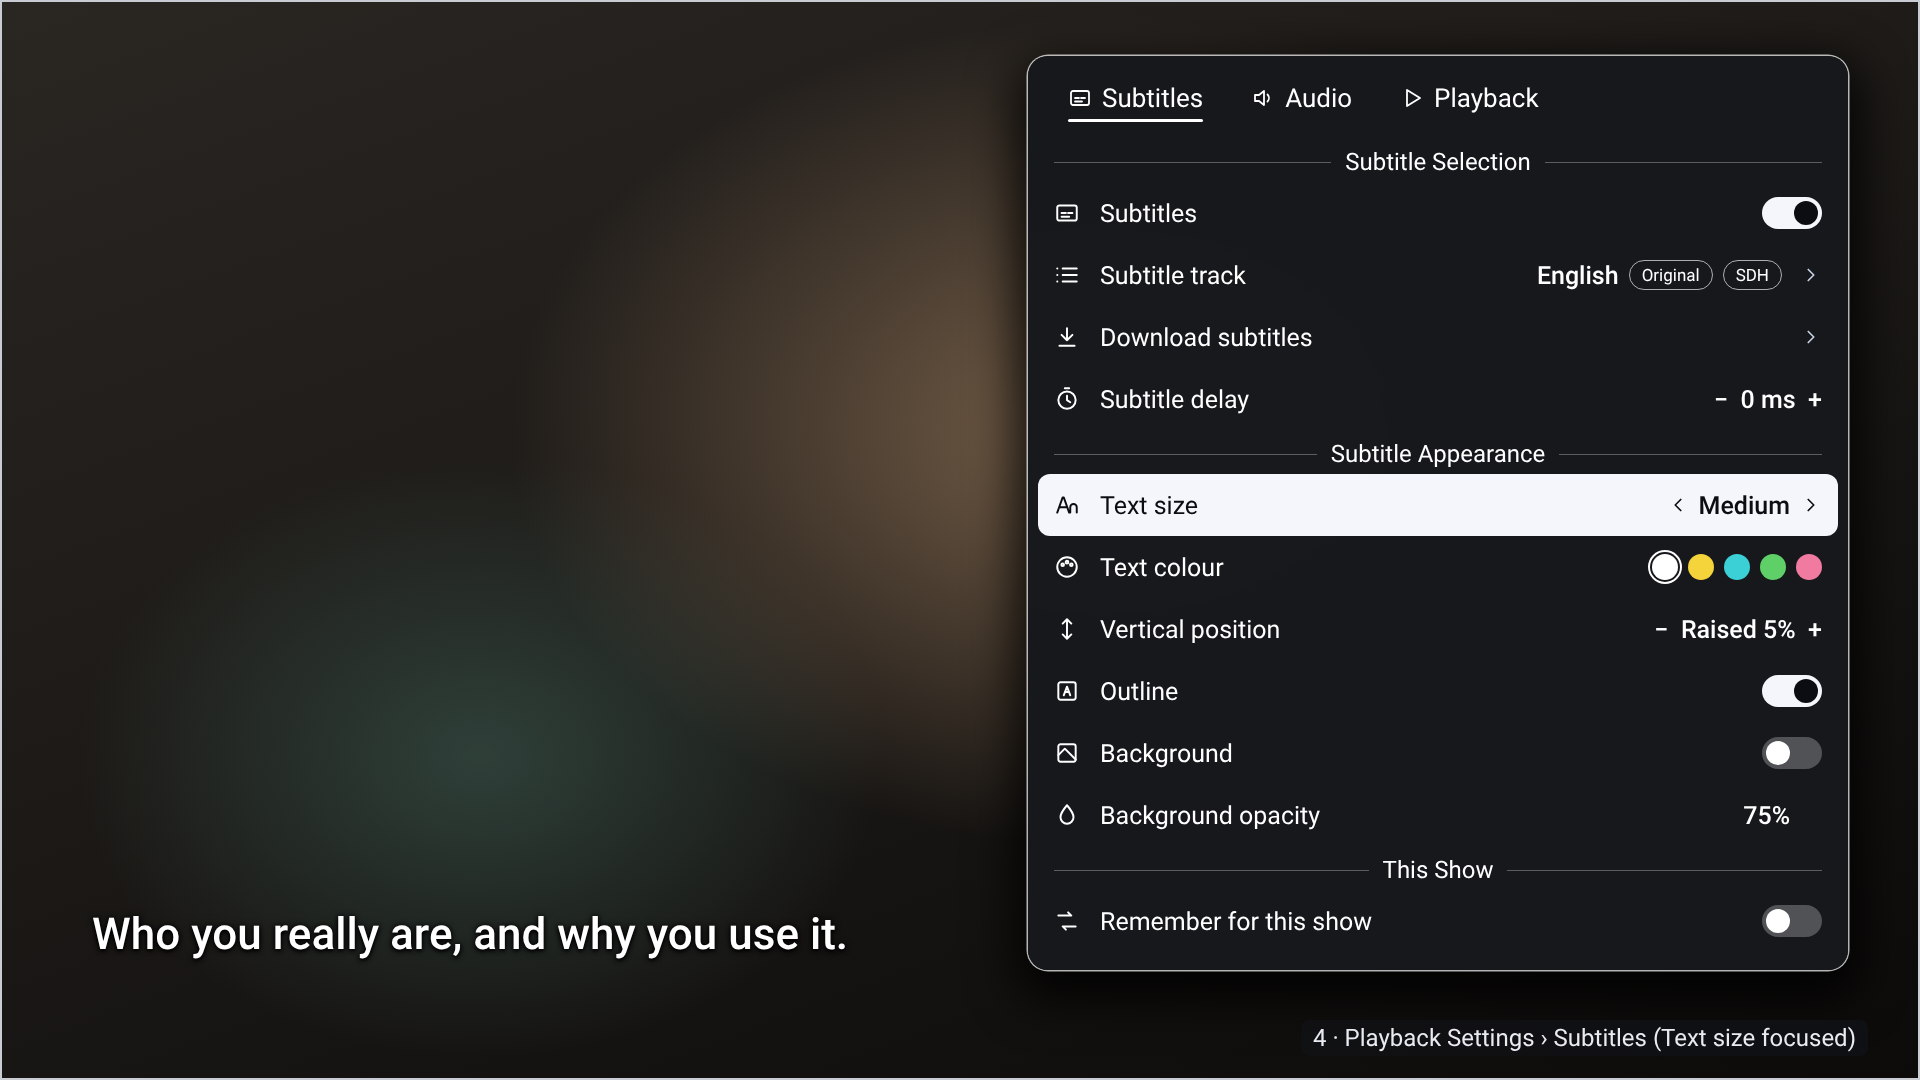
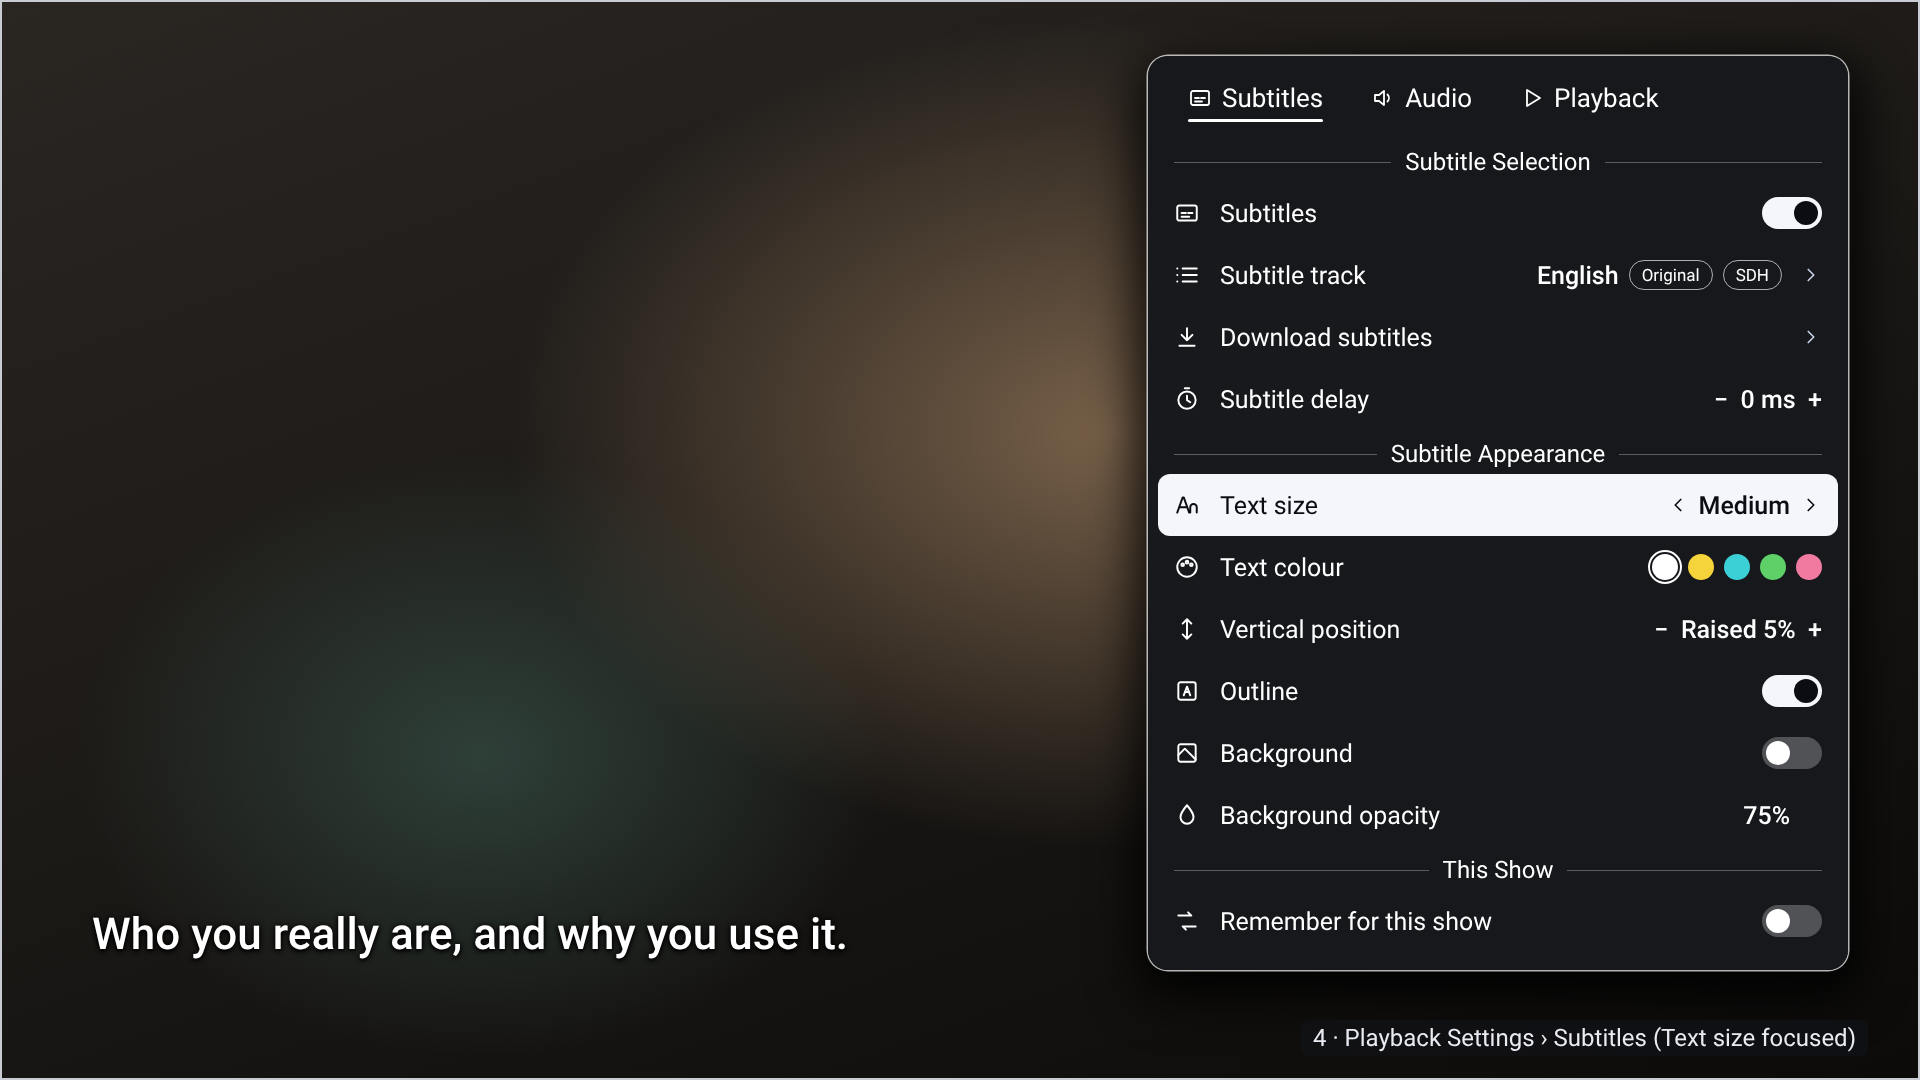
Player: Skipping steps, panel 700, skip far right with controls, seek preview setting, badge and preview bugs (player-v16/tv/06, 08)
Claude-Session: https://claude.ai/code/session_01FtDZqbpF6RqZ5ckDtvyYL6

Changed region(s): [[0.5, 0.0611, 0.8438, 0.7639], [0.6875, 0.0611, 0.8438, 0.1528], [0.5625, 0.7944, 0.8125, 0.8861]]

diff --git a/docs/design/proposals/player-v16/render.js b/docs/design/proposals/player-v16/render.js
@@ -78,7 +78,7 @@ body{width:1920px;height:1080px;overflow:hidden;font-family:R,sans-serif;color:#
 .card .c2{font-size:19px;color:#c9d3e6;margin-top:4px}
 .badge{position:absolute;top:8px;right:8px;width:48px;height:48px;border-radius:50%;background:#fff;box-shadow:0 1px 6px rgba(0,0,0,.45)}
 .badge svg{position:absolute;left:0;top:0}
-.panel{position:absolute;right:72px;top:56px;width:820px;border-radius:20px;background:rgba(22,24,28,.99);padding:16px 0 18px;
+.panel{position:absolute;right:72px;top:56px;width:700px;border-radius:20px;background:rgba(22,24,28,.99);padding:16px 0 18px;
  box-shadow:0 0 0 1.5px rgba(255,255,255,.7),0 18px 48px 12px rgba(0,0,0,.85)}
 .ptabs{display:flex;gap:8px;padding:0 20px 14px;font-size:26px}
 .ptabs span{height:52px;padding:0 20px;border-radius:20px;display:flex;align-items:center;gap:10px;position:relative}
@@ -163,15 +163,21 @@ function f6() {
   return '<div class="subline">Who you really are, and why you use it.</div>' + `<div class="panel">${ptabs('Playback')}
     <div class="h">Picture and Speed</div>${row(I.format, 'Format', step('Fit'))}${row(I.speed, 'Speed', step('1×'))}
     <div class="h">Playing On</div>${row(I.moon, 'Stop playing at', step('22:40', true), true)}${row(I.ask, 'Still watching?', step('Off'))}
-    ${row(I.mode, 'Play mode', step('Play next'))}${row(I.skip, 'Skipping', '<span class="chips"><b>Off</b><b class="sel">Show button</b><b>Skip</b></span>')}
+    ${row(I.mode, 'Play mode', step('Play next'))}${row(I.skip, 'Skipping', step('Show button'))}
     <div class="h">This Show</div>${row(I.remember, 'Remember for this show', sw(false))}</div>`
-    + '<div class="cap2">6 · Playback Settings › Playback (Stop playing at focused; Skipping still chips)</div>';
+    + '<div class="cap2">6 · Playback (Skipping now steps; panel narrowed to about 700 px)</div>';
+}
+function f8() {
+  return top() + `<div class="ctrl" style="top:596px"><span class="pbtn">${svg(I.pause, 26)}</span>
+    <div class="seek"><div class="buf"></div><b style="width:8%"></b><i style="left:3%"></i><i style="left:15%"></i><span class="knob" style="left:8%"></span></div>
+    <span class="time">3:40 / 46:12 · Ends 22:48</span><span class="sbtn">${svg(I.cog, 26)}Settings</span><span class="sbtn f">${svg(I.skip, 26)}Skip intro</span></div>`
+    + tabs(688, 'Chapters') + cards(784, CH, -1) + '<div class="cap2">8 · Skip with the controls: it takes the far right, Settings moves in, the seek bar shortens</div>';
 }
 function f7() { return `<div class="ctrl" style="top:960px;justify-content:flex-end"><span class="sbtn f">${svg(I.skip, 26)}Skip intro</span></div>` + '<div class="cap2" style="right:auto;left:52px">7 · Skip button alone, in its place on the controls\' line</div>'; }
 (async () => {
   fs.mkdirSync(OUT, { recursive: true });
   const b = await chromium.launch(); const pg = await b.newPage({ viewport: { width: 1920, height: 1080 } });
-  for (const [n, fn] of [['01-controls-chapters', f1], ['02-chapters-tab-focused', f2], ['03-episodes', f3], ['04-settings-subtitles', f4], ['05-settings-audio', f5], ['06-settings-playback', f6], ['07-skip-alone', f7]]) {
+  for (const [n, fn] of [['01-controls-chapters', f1], ['02-chapters-tab-focused', f2], ['03-episodes', f3], ['04-settings-subtitles', f4], ['05-settings-audio', f5], ['06-settings-playback', f6], ['07-skip-alone', f7], ['08-skip-with-controls', f8]]) {
     await pg.setContent(`<!doctype html><html><head><meta charset="utf-8"><style>${css}</style></head><body><div class="screen">${fn()}<div class="border"></div></div></body></html>`);
     await pg.evaluate(() => document.fonts.ready); await pg.screenshot({ path: path.join(OUT, `${n}.png`) });
   }

diff --git a/docs/0.158/BRIEF_0158_B.md b/docs/0.158/BRIEF_0158_B.md
@@ -488,6 +488,24 @@ Episodes tab behaviour exactly: white box in the 52 px shape with a gap above th
 underline under the open tab's word, clear of the line. Reuse the player's tab code or values; test that no tab box
 or underline intersects the line under the tab row.
 
+### Player review (owner, 21 Nov; mock-ups `player-v16/tv/01`–`08`; page sheet PLAYER.md to follow)
+- **Bugs on the Shield:** (1) **seek previews still fail** (grey box); (2) with the Seek previews setting off, a
+  picture box still shows (chapter pictures, often grey too); (3) the **age badge's bottom edge is cut off** in the
+  title block (e.g. "12A" on a film): size the badge from its text's real bounds, no clipping; test that the badge's
+  outline is drawn whole on Preparing playback, the player and the heroes.
+- **Seek preview setting (Settings › Playback, and Playback Settings if listed):** a stepper **Seek preview: Off ·
+  Chapter pictures · Video frames**. **Off** shows no picture at all, only the time box (time over the chapter name).
+  And whichever is chosen, **never a grey box**: if a picture isn't ready in time, the time box shows alone.
+- **Tabs (Chapters · Episodes):** the reference for every tab row (RULES); the line under them = the library toolbar
+  line (white 35%, about 2 px, fading at both ends).
+- **Playback Settings:** **Skipping steps with Left / Right** (‹ Show button ›; Off · Show button · Skip) like every
+  row with more than two choices; panel narrowed to about **700 px** (`tv/06`). Edge over video: **the same white
+  outline at 70% and dark shadow** as every panel (owner, 21 Nov; RULES §11 settled).
+- **Skip button (`tv/07`, `tv/08`):** alone, in its place at the right of the controls' line; with the controls shown
+  it takes **the far right**, Settings moves in beside it, the seek bar shortens to make room.
+- Title block = Preparing playback's (facts line with the badge first, no reasons line); clock in the bar's regular
+  weight; chapter and episode cards with the artwork edge and the corner badge, no bars; no stub chapters under 10 s.
+
 ### Details page sheet (21 Nov)
 `docs/design/pages/DETAILS.md` is rewritten from the six review rounds above and wins over them where they differ.
 

diff --git a/docs/design/RULES.md b/docs/design/RULES.md
@@ -255,7 +255,7 @@ One brightness scale that follows your path, everywhere, top bar and tabs includ
   one shared value (§4). **Edge (owner, 19 Nov, judged on the TV, `rows-captions/tv/05` no. 3):** a thin **white
   outline at 70%** (about 1.5 px at 1080p) **plus a dark shadow spreading outwards** (black at about 85%, about 48 px
   soft, offset 18 px down), so menus float above the page and keep a crisp edge over poster captions. Same for every
-  pop-up, menu and side panel. **Over video** (Playback Settings): to settle in the player walk-through.
+  pop-up, menu and side panel. **Over video** (Playback Settings): the same outline and shadow (owner, 21 Nov).
 - Focused item: filled white, black text and icon (section 3).
 - **A list opened from a panel sits on top of it** (owner, 13 Nov; replaces "never stack", 0.156 P5): the panel behind
   is darkened and pushed back slightly (about 45% brightness, 96% size) with the row you came from still visible; the
@@ -426,6 +426,8 @@ One brightness scale that follows your path, everywhere, top bar and tabs includ
 - **One loading ring for the player, in the centre of the screen** (the app's ring, as on Preparing playback and the
   Files scan) whenever playback waits (after a seek, slow network). The time box only ever shows the time over the
   chapter name; the seek preview picture uses exactly that layout inside it (owner, 12 Nov; replaces §14 A).
+- **Seek preview (owner, 21 Nov):** a setting Off · Chapter pictures · Video frames; Off shows no picture; never a grey
+  box: a picture not ready in time leaves the time box alone.
 
 ---
 

diff --git a/docs/DISCUSSION_HANDOVER.md b/docs/DISCUSSION_HANDOVER.md
@@ -2,8 +2,9 @@
 
 ## 21 Nov evening — Player review started (start here next time)
 - Player redrawn on today's rules: `player-v16/tv/01`–`07` (Drive › From Claude › 2026-11-21 Player): controls with
-  Chapters, tab focused, Episodes, Playback Settings × 3 tabs, skip alone. Asked: Skipping chips vs stepper; panel
-  edge over video. Waiting for notes. No page sheet for the player yet: write `docs/design/pages/PLAYER.md` after.
+  Chapters, tab focused, Episodes, Playback Settings × 3 tabs, skip alone. Decided: Skipping steps, panel 700 px, edge
+  outline+shadow over video, skip button far right with controls (`tv/08`), seek preview setting Off · Chapter
+  pictures · Video frames, bugs (previews, age badge clipped). In the brief. No page sheet for the player yet: write `docs/design/pages/PLAYER.md` after.
 
 ## 21 Nov evening — Details done
 - **Details done:** page sheet `docs/design/pages/DETAILS.md` rewritten from rounds 1–6. Done so far: library pages,
